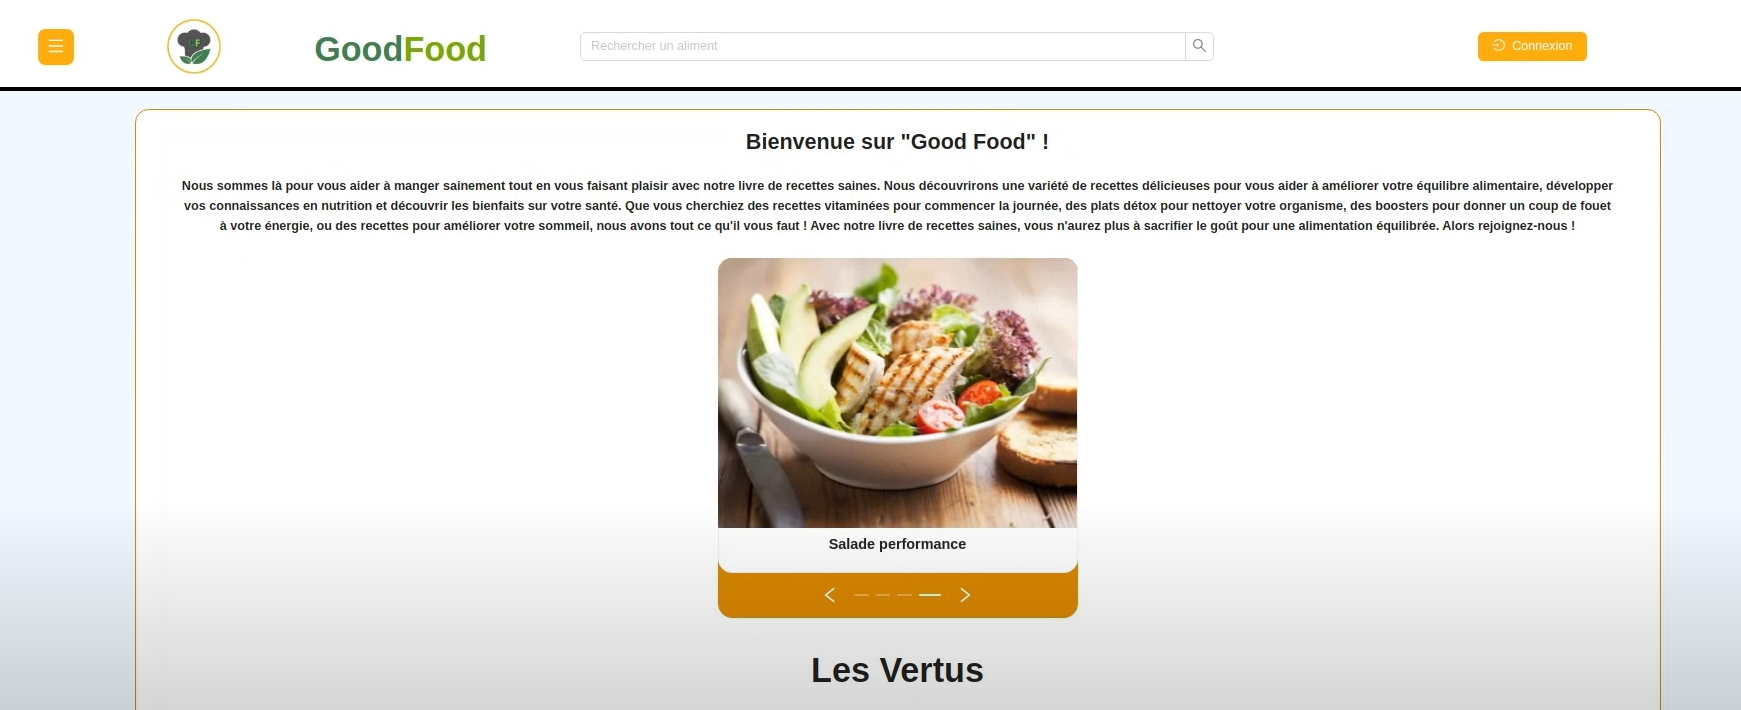
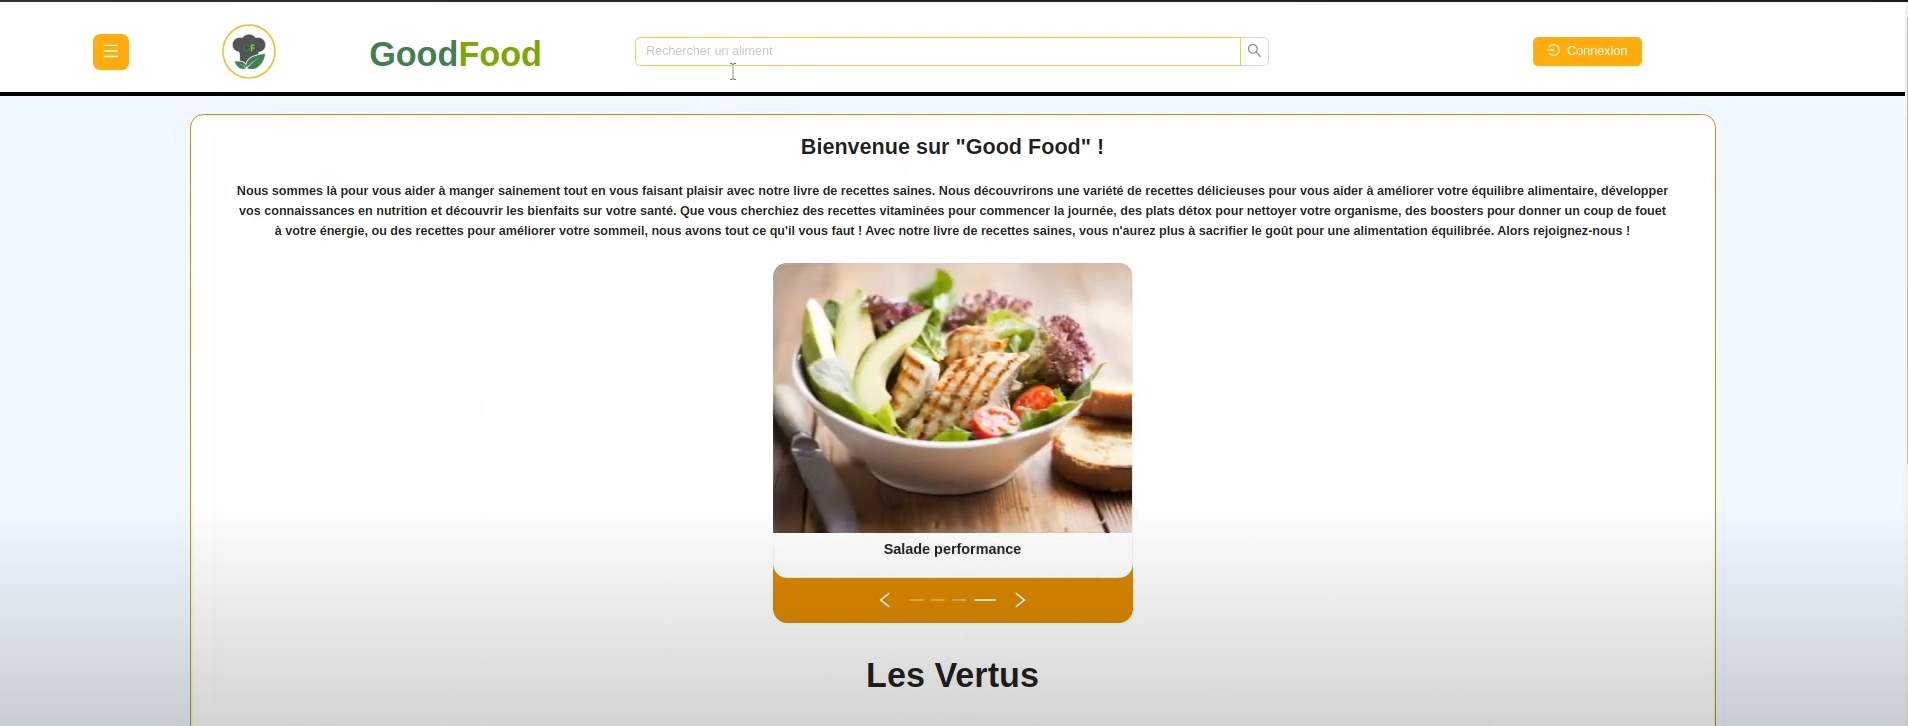
add : change height image

diff --git a/src/components/Content.tsx b/src/components/Content.tsx
@@ -30,9 +30,10 @@ function Content() {
     const isLg = useMediaQuery(theme.breakpoints.between('lg', 'xl'));
     const isXl = useMediaQuery(theme.breakpoints.up('xl'));
     
-    let imgWidth;
+    let imgWidth, imgMinHeight;
     if (isXs) {
         imgWidth = '270px';
+        imgMinHeight = '200px';
     } else if (isSm) {
         imgWidth = '500px';
     } else if (isMd) {
@@ -41,6 +42,7 @@ function Content() {
         imgWidth = '700px';
     } else if (isXl) {
         imgWidth = '800px';
+        imgMinHeight = '400px';
     }
 
     return (
@@ -89,7 +91,8 @@ function Content() {
                 <img src={selectedProject?.image} alt={selectedProject?.name} 
                     style={{
                         borderRadius:'15px', 
-                        width: imgWidth
+                        width: imgWidth,
+                        minHeight: imgMinHeight,
                     }}
                 />
                 </Fade>

diff --git a/src/components/ProjectContent.tsx b/src/components/ProjectContent.tsx
@@ -9,7 +9,7 @@ const ProjectContent = [
     { 
         id: 2, 
         name: "GoodFood", 
-        description: "C'est un projet clé réalisé pour mon diplôme de Développeur Web et Web Mobile. En collaboration avec quatre collègues, j'ai principalement travaillé sur le développement FrontEnd en utilisant React, tandis que Symfony a été utilisé pour le BackEnd.",
+        description: "C'est un projet clé réalisé pour mon diplôme de Développeur Web et Web Mobile. En collaboration avec quatre collègues, j'ai principalement travaillé sur le développement FrontEnd en utilisant React, tandis que Symfony a été utilisé pour le BackEnd. Il s'agit d'un site de livre de recette, on peut voir différentes recettes bonnes pour la santé, mais également en ajouter nous même en se créant un compte.",
         image: "/goodfood.png"
  
     },
